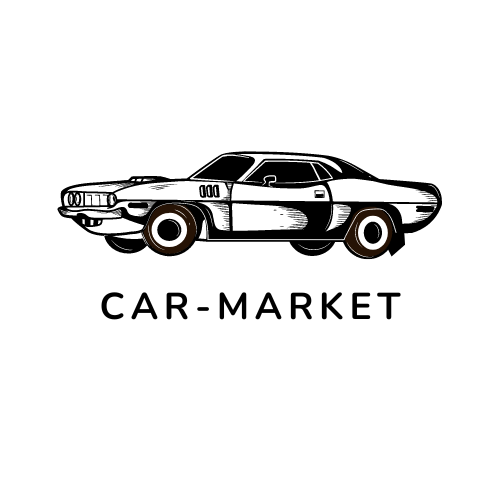
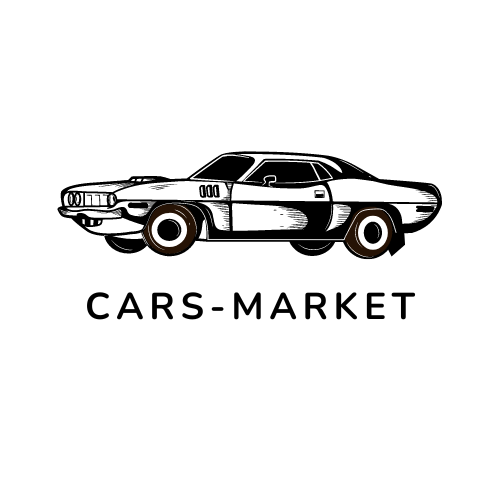
agregando perfil de usuario y arreglando carddetail

Changed region(s): [[0.15, 0.57, 0.84, 0.66]]

diff --git a/client/src/components/PerfilUser/PerfilUser.jsx b/client/src/components/PerfilUser/PerfilUser.jsx
@@ -1,57 +1,91 @@
-import {React, useEffect } from 'react'
-import { getUser, getUsers } from '../../Redux/Actions';
+import { React, useEffect } from 'react'
+import { getUser } from '../../Redux/Actions';
 import { useDispatch, useSelector } from 'react-redux';
-import { useParams } from "react-router-dom";
+import { useParams, useNavigate } from "react-router-dom";
 import Card from "../Card/Card.jsx";
+import NavBar from '../NavBar/NavBar';
 
+const estilos = {
+  button_regresar_inicio: "text-white bg-blue-700 hover:bg-blue-800 focus:outline-none shadow-md shadow-black rounded-full text-center mr-2 mb-2 dark:bg-blue-600 dark:hover:bg-blue-900 dark:focus:ring-blue-800 font-semibold text-lg leading-4  w-auto py-4 px-4 lg:mt-12 mt-6",
+}
 
+function PerfilUser() {
 
-function PerfilUser(props) {
+  const dispatch = useDispatch();
+  const history = useNavigate();
 
-    const dispatch = useDispatch();
+  const userDetail = useSelector(state => state.user);
+  const cardDetail = useSelector((state) => state.carDetail);
 
-    const userDetail = useSelector(state => state.user)
+  const car = userDetail.cars;
+  const reviewsUser = cardDetail.user && cardDetail.user.reviews;
+  const ratings = reviewsUser && reviewsUser.map(e => e.rating);
+  const ratingUser = ratings && Math.round(ratings.reduce((a, b) => a + b, 0) / ratings.length);
 
-    const car = userDetail.cars;
+  let { id } = useParams();
 
-    const reviewsUser = userDetail.reviews
-    const ratingUser = reviewsUser && Math.round(reviewsUser.reduce((a, b) => a + b, 0) / reviewsUser.length);
-
-    console.log(userDetail)
-
-    let { id } = useParams();
-
-    useEffect(() => {
-        dispatch(getUser(id))
-    }, {dispatch, id})
+  useEffect(() => {
+    dispatch(getUser(id))
+  }, [dispatch, id])
 
   return (
     <div>
-        <img src={userDetail.imgPerfil} alt='img not found' />
-        <div>{userDetail.firstName} {userDetail.lastName}</div>
-        <div class="flex gap-1">
-                        <svg aria-hidden="true" class={(reviewsUser && ratingUser >= 1) ? "w-7 h-7 text-yellow-400" : "w-7 h-7 text-gray-300"} fill="currentColor" viewBox="0 0 20 20" xmlns="http://www.w3.org/2000/svg"><title>First star</title><path d="M9.049 2.927c.3-.921 1.603-.921 1.902 0l1.07 3.292a1 1 0 00.95.69h3.462c.969 0 1.371 1.24.588 1.81l-2.8 2.034a1 1 0 00-.364 1.118l1.07 3.292c.3.921-.755 1.688-1.54 1.118l-2.8-2.034a1 1 0 00-1.175 0l-2.8 2.034c-.784.57-1.838-.197-1.539-1.118l1.07-3.292a1 1 0 00-.364-1.118L2.98 8.72c-.783-.57-.38-1.81.588-1.81h3.461a1 1 0 00.951-.69l1.07-3.292z"></path></svg>
-                        <svg aria-hidden="true" class={(reviewsUser && ratingUser >= 2) ? "w-7 h-7 text-yellow-400" : "w-7 h-7 text-gray-300"} fill="currentColor" viewBox="0 0 20 20" xmlns="http://www.w3.org/2000/svg"><title>Second star</title><path d="M9.049 2.927c.3-.921 1.603-.921 1.902 0l1.07 3.292a1 1 0 00.95.69h3.462c.969 0 1.371 1.24.588 1.81l-2.8 2.034a1 1 0 00-.364 1.118l1.07 3.292c.3.921-.755 1.688-1.54 1.118l-2.8-2.034a1 1 0 00-1.175 0l-2.8 2.034c-.784.57-1.838-.197-1.539-1.118l1.07-3.292a1 1 0 00-.364-1.118L2.98 8.72c-.783-.57-.38-1.81.588-1.81h3.461a1 1 0 00.951-.69l1.07-3.292z"></path></svg>
-                        <svg aria-hidden="true" class={(reviewsUser && ratingUser >= 3) ? "w-7 h-7 text-yellow-400" : "w-7 h-7 text-gray-300"} fill="currentColor" viewBox="0 0 20 20" xmlns="http://www.w3.org/2000/svg"><title>Third star</title><path d="M9.049 2.927c.3-.921 1.603-.921 1.902 0l1.07 3.292a1 1 0 00.95.69h3.462c.969 0 1.371 1.24.588 1.81l-2.8 2.034a1 1 0 00-.364 1.118l1.07 3.292c.3.921-.755 1.688-1.54 1.118l-2.8-2.034a1 1 0 00-1.175 0l-2.8 2.034c-.784.57-1.838-.197-1.539-1.118l1.07-3.292a1 1 0 00-.364-1.118L2.98 8.72c-.783-.57-.38-1.81.588-1.81h3.461a1 1 0 00.951-.69l1.07-3.292z"></path></svg>
-                        <svg aria-hidden="true" class={(reviewsUser && ratingUser >= 4) ? "w-7 h-7 text-yellow-400" : "w-7 h-7 text-gray-300"} fill="currentColor" viewBox="0 0 20 20" xmlns="http://www.w3.org/2000/svg"><title>Fourth star</title><path d="M9.049 2.927c.3-.921 1.603-.921 1.902 0l1.07 3.292a1 1 0 00.95.69h3.462c.969 0 1.371 1.24.588 1.81l-2.8 2.034a1 1 0 00-.364 1.118l1.07 3.292c.3.921-.755 1.688-1.54 1.118l-2.8-2.034a1 1 0 00-1.175 0l-2.8 2.034c-.784.57-1.838-.197-1.539-1.118l1.07-3.292a1 1 0 00-.364-1.118L2.98 8.72c-.783-.57-.38-1.81.588-1.81h3.461a1 1 0 00.951-.69l1.07-3.292z"></path></svg>
-                        <svg aria-hidden="true" class={(reviewsUser && ratingUser === 5) ? "w-7 h-7 text-yellow-400" : "w-7 h-7 text-gray-300"} fill="currentColor" viewBox="0 0 20 20" xmlns="http://www.w3.org/2000/svg"><title>Fifth star</title><path d="M9.049 2.927c.3-.921 1.603-.921 1.902 0l1.07 3.292a1 1 0 00.95.69h3.462c.969 0 1.371 1.24.588 1.81l-2.8 2.034a1 1 0 00-.364 1.118l1.07 3.292c.3.921-.755 1.688-1.54 1.118l-2.8-2.034a1 1 0 00-1.175 0l-2.8 2.034c-.784.57-1.838-.197-1.539-1.118l1.07-3.292a1 1 0 00-.364-1.118L2.98 8.72c-.783-.57-.38-1.81.588-1.81h3.461a1 1 0 00.951-.69l1.07-3.292z"></path></svg>
-                      </div>
-        <div>
-            {car && car.map(el => (
-                <Card 
-                    key={el.id}
-                    id={el.id}
-                    image={el.image}
-                    descriptionShort={el.descriptionShort}
-                    price={el.price}
-                    kilometres={el.kilometres}
-                    transmition={el.transmition}
-                    year={el.year}
-                    prem={el.premium}
-                  />
-            ))
-            }
+      <div>
+        <NavBar />
+      </div>
+      <div className='pt-40 pb-10 bg-gradient-to-r from-cyan-500 to-blue-500 flex justify-center'>
+        <div className='w-9/12 bg-white flex flex-col rounded-3xl shadow-xl'>
+          <div className='flex justify-between'>
+            <div className='flex'>
+              <div className='pl-20'>
+                <img src={userDetail.imgPerfil} alt='img not found' className='rounded-full w-36 shadow-xl border-none -mt-16' />
+              </div>
+              <div>
+                <div className='font-semibold lg:text-4xl sm:text-2xl md:text-2xl text-3xl leading-10 text-gray-600 mt-8 ml-6'>{userDetail.firstName} {userDetail.lastName}</div>
+                <div class="flex gap-1 ml-6 mt-2">
+                  <svg aria-hidden="true" class={(reviewsUser && ratingUser >= 1) ? "sm:w-6 sm:h-6 md:w-7 md:h-7 lg:w-8 lg:h8 xl:w-9 xl:h-9 text-yellow-400" : "sm:w-6 sm:h-6 md:w-7 md:h-7 lg:w-8 lg:h8 xl:w-9 xl:h-9 text-gray-300"} fill="currentColor" viewBox="0 0 20 20" xmlns="http://www.w3.org/2000/svg"><title>First star</title><path d="M9.049 2.927c.3-.921 1.603-.921 1.902 0l1.07 3.292a1 1 0 00.95.69h3.462c.969 0 1.371 1.24.588 1.81l-2.8 2.034a1 1 0 00-.364 1.118l1.07 3.292c.3.921-.755 1.688-1.54 1.118l-2.8-2.034a1 1 0 00-1.175 0l-2.8 2.034c-.784.57-1.838-.197-1.539-1.118l1.07-3.292a1 1 0 00-.364-1.118L2.98 8.72c-.783-.57-.38-1.81.588-1.81h3.461a1 1 0 00.951-.69l1.07-3.292z"></path></svg>
+                  <svg aria-hidden="true" class={(reviewsUser && ratingUser >= 2) ? "sm:w-6 sm:h-6 md:w-7 md:h-7 lg:w-8 lg:h8 xl:w-9 xl:h-9 text-yellow-400" : "sm:w-6 sm:h-6 md:w-7 md:h-7 lg:w-8 lg:h8 xl:w-9 xl:h-9 text-gray-300"} fill="currentColor" viewBox="0 0 20 20" xmlns="http://www.w3.org/2000/svg"><title>Second star</title><path d="M9.049 2.927c.3-.921 1.603-.921 1.902 0l1.07 3.292a1 1 0 00.95.69h3.462c.969 0 1.371 1.24.588 1.81l-2.8 2.034a1 1 0 00-.364 1.118l1.07 3.292c.3.921-.755 1.688-1.54 1.118l-2.8-2.034a1 1 0 00-1.175 0l-2.8 2.034c-.784.57-1.838-.197-1.539-1.118l1.07-3.292a1 1 0 00-.364-1.118L2.98 8.72c-.783-.57-.38-1.81.588-1.81h3.461a1 1 0 00.951-.69l1.07-3.292z"></path></svg>
+                  <svg aria-hidden="true" class={(reviewsUser && ratingUser >= 3) ? "sm:w-6 sm:h-6 md:w-7 md:h-7 lg:w-8 lg:h8 xl:w-9 xl:h-9 text-yellow-400" : "sm:w-6 sm:h-6 md:w-7 md:h-7 lg:w-8 lg:h8 xl:w-9 xl:h-9 text-gray-300"} fill="currentColor" viewBox="0 0 20 20" xmlns="http://www.w3.org/2000/svg"><title>Third star</title><path d="M9.049 2.927c.3-.921 1.603-.921 1.902 0l1.07 3.292a1 1 0 00.95.69h3.462c.969 0 1.371 1.24.588 1.81l-2.8 2.034a1 1 0 00-.364 1.118l1.07 3.292c.3.921-.755 1.688-1.54 1.118l-2.8-2.034a1 1 0 00-1.175 0l-2.8 2.034c-.784.57-1.838-.197-1.539-1.118l1.07-3.292a1 1 0 00-.364-1.118L2.98 8.72c-.783-.57-.38-1.81.588-1.81h3.461a1 1 0 00.951-.69l1.07-3.292z"></path></svg>
+                  <svg aria-hidden="true" class={(reviewsUser && ratingUser >= 4) ? "sm:w-6 sm:h-6 md:w-7 md:h-7 lg:w-8 lg:h8 xl:w-9 xl:h-9 text-yellow-400" : "sm:w-6 sm:h-6 md:w-7 md:h-7 lg:w-8 lg:h8 xl:w-9 xl:h-9 text-gray-300"} fill="currentColor" viewBox="0 0 20 20" xmlns="http://www.w3.org/2000/svg"><title>Fourth star</title><path d="M9.049 2.927c.3-.921 1.603-.921 1.902 0l1.07 3.292a1 1 0 00.95.69h3.462c.969 0 1.371 1.24.588 1.81l-2.8 2.034a1 1 0 00-.364 1.118l1.07 3.292c.3.921-.755 1.688-1.54 1.118l-2.8-2.034a1 1 0 00-1.175 0l-2.8 2.034c-.784.57-1.838-.197-1.539-1.118l1.07-3.292a1 1 0 00-.364-1.118L2.98 8.72c-.783-.57-.38-1.81.588-1.81h3.461a1 1 0 00.951-.69l1.07-3.292z"></path></svg>
+                  <svg aria-hidden="true" class={(reviewsUser && ratingUser === 5) ? "sm:w-6 sm:h-6 md:w-7 md:h-7 lg:w-8 lg:h8 xl:w-9 xl:h-9 text-yellow-400" : "sm:w-6 sm:h-6 md:w-7 md:h-7 lg:w-8 lg:h8 xl:w-9 xl:h-9 text-gray-300"} fill="currentColor" viewBox="0 0 20 20" xmlns="http://www.w3.org/2000/svg"><title>Fifth star</title><path d="M9.049 2.927c.3-.921 1.603-.921 1.902 0l1.07 3.292a1 1 0 00.95.69h3.462c.969 0 1.371 1.24.588 1.81l-2.8 2.034a1 1 0 00-.364 1.118l1.07 3.292c.3.921-.755 1.688-1.54 1.118l-2.8-2.034a1 1 0 00-1.175 0l-2.8 2.034c-.784.57-1.838-.197-1.539-1.118l1.07-3.292a1 1 0 00-.364-1.118L2.98 8.72c-.783-.57-.38-1.81.588-1.81h3.461a1 1 0 00.951-.69l1.07-3.292z"></path></svg>
+                </div>
+              </div>
+            </div>
+            <div className='mr-10'>
+              <button
+                title="Regresar al inicio"
+                className={estilos.button_regresar_inicio}
+                onClick={() => history(`/cars/${cardDetail.id}`)}>
+                Regresar
+              </button>
+            </div>
+          </div>
+          <div className='flex justify-center border-y-2 border-gray-300 my-5 mx-20'>
+            <div className='sm:text-xl md:text-2xl lg:text-3xl text-gray-600 font-semibold py-3  '>
+              Publicaciones
+            </div>
+          </div>
+          <div className=' mb-10'>
+            <div className='flex  lg:flex-row justify-center'>
+              {car && car.map(el => (
+                <Card
+                  key={el.id}
+                  id={el.id}
+                  image={el.image}
+                  descriptionShort={el.descriptionShort}
+                  price={el.price}
+                  kilometres={el.kilometres}
+                  transmition={el.transmition}
+                  year={el.year}
+                  prem={el.premium}
+
+                />
+              ))
+              }
+            </div>
+          </div>
         </div>
+      </div>
     </div>
   )
 }

diff --git a/client/src/components/CardDetail/CardDetail.jsx b/client/src/components/CardDetail/CardDetail.jsx
@@ -19,9 +19,7 @@ const estilos = {
   cajaComentarios: "border-4 border-gray-300 mb-5 pl-3 py-3 h-auto w-full shadow-sm bg-transparent rounded text-lg focus:outline-none focus:border-blue-500 placeholder-gray-500 text-gray-700",
   contenedor_input_y_titulo: "md:w-auto flex flex-col mb-6",
   titulos: "text-xl leading-8 font-semibold text-gray-800 pb-2",
-
 }
-
 
 function CardDetail() {
 
@@ -82,10 +80,8 @@ function CardDetail() {
 
   const reviewsUser = carsDetail.user && carsDetail.user.reviews;
   // const reviewsUser = [1, 5, 3, 2, 1, 2, 4]
-  const ratings = reviewsUser.map(e => e.rating);
+  const ratings = reviewsUser && reviewsUser.map(e => e.rating);
   const ratingUser = ratings && Math.round(ratings.reduce((a, b) => a + b, 0) / ratings.length);
-  console.log(reviewsUser);
-  console.log(ratingUser);
 
   useEffect(() => {
     dispatch(getCardDetail(id));
@@ -169,8 +165,6 @@ function CardDetail() {
     return <Loading />;
   }
 
-  console.log(carsDetail);
-
   return (
     <div>
       <NavBar />
@@ -226,10 +220,10 @@ function CardDetail() {
               <div className=" w-full sm:w-96 md:w-8/12 lg:w-6/12 flex flex-col sm:pt-6 p-3 items-center lg:gap-8 sm:gap-6 gap-4">
                 <article className=' w-full lg:w-9/12'>
                   <div class="flex gap-5">
-                    <img class="w-20 h-20 rounded-full" src={carsDetail.user ? carsDetail.user.imgPerfil : perfilImg} alt={perfilImg} />
+                    <img class="w-20 h-20 rounded-full cursor-pointer" title='Ver perfil de este usuario' onClick={() => history(`/perfil/${carsDetail.user && carsDetail.user.id}`)} src={carsDetail.user ? carsDetail.user.imgPerfil : perfilImg} alt={perfilImg} />
                     <div class="flex flex-col justify-between py-3 w-auto font-medium text-black">
                       <div>
-                        <p className='text-2xl leading-8 font-semibold text-gray-800'> {`${carsDetail.user && carsDetail.user.firstName} ${carsDetail.user && carsDetail.user.lastName}`}</p>
+                        <p onClick={() => history(`/perfil/${carsDetail.user && carsDetail.user.id}`)}title='Ver perfil de este usuario' className='text-2xl leading-8 font-semibold text-gray-800 cursor-pointer'> {`${carsDetail.user && carsDetail.user.firstName} ${carsDetail.user && carsDetail.user.lastName}`}</p>
                       </div>
                       <div class="flex gap-1">
                         <svg aria-hidden="true" class={(reviewsUser && ratingUser >= 1) ? "w-7 h-7 text-yellow-400" : "w-7 h-7 text-gray-300"} fill="currentColor" viewBox="0 0 20 20" xmlns="http://www.w3.org/2000/svg"><title>First star</title><path d="M9.049 2.927c.3-.921 1.603-.921 1.902 0l1.07 3.292a1 1 0 00.95.69h3.462c.969 0 1.371 1.24.588 1.81l-2.8 2.034a1 1 0 00-.364 1.118l1.07 3.292c.3.921-.755 1.688-1.54 1.118l-2.8-2.034a1 1 0 00-1.175 0l-2.8 2.034c-.784.57-1.838-.197-1.539-1.118l1.07-3.292a1 1 0 00-.364-1.118L2.98 8.72c-.783-.57-.38-1.81.588-1.81h3.461a1 1 0 00.951-.69l1.07-3.292z"></path></svg>

diff --git a/api/src/routes/SendEmail.js b/api/src/routes/SendEmail.js
@@ -43,6 +43,37 @@ router.post("/ForSeller", async (req, res) => {
     }
 });
 
+router.post("/copyOfMailBuyer", async (req, res) => {
+    const { firstName, lastName, emailbuyer, message, emailSeller, phone, car } = req.body;
+
+    try {
+        await transporter.sendMail({
+            from: `${firstName} ${lastName}: ${emailbuyer}`,// Quien manda el email
+            to: emailbuyer,// Email destino
+            subject: "Publicaciones Car-Market",//Asunto del correo
+            text: `${message}`,
+            html: `
+            <h2>Esto es una copia de su su mensaje al vendedor sobre ${car}</h2>
+            <p><strong>Por favor, NO responder directectamente este correo!!!</strong></p>
+            <p><strong>Su mensaje ha sido enviado exitosamente al vendedor, pronto se contactara con usted</strong></p>
+            
+            <hr />
+            <span><strong>Nombre: </strong>${firstName} ${lastName}</span><br/>
+            <span><strong>Email: </strong>${emailbuyer}</span><br/>
+            <span><strong>Telefono: </strong>${phone ? phone : "No especificado"}</span>
+            <hr />
+            <h3>Mensaje:</h3>
+            <p>${message}</p>
+            <hr />
+            `
+        });
+        res.status(200).send(`Copia de correo enviado a: ${emailbuyer}`);
+
+    } catch (error) {
+        res.status(500).send("Error en el servidor al enviar el correo");
+    }
+});
+
 router.post("/ForBuyer", async (req, res) => {
     const { firstName, lastName, emailbuyer, message, emailSeller, idSeller, firstNameSeller, lastNameSeller } = req.body;
 

diff --git a/client/src/components/NavBar/NavBar.jsx b/client/src/components/NavBar/NavBar.jsx
@@ -1,7 +1,7 @@
 import { React, useState } from "react";
 import SearchBar from "../SearchBar/SearchBar";
 import "./NavBar.css";
-import Logo from "./Logo CarMarket.png";
+import Logo from "./Logo Cars-Market.png";
 import { Link, useNavigate } from "react-router-dom";
 import { useAuth0 } from "@auth0/auth0-react";
 import imgDefault from "../Card/imagenes/usuario.png";
@@ -28,7 +28,7 @@ export default function NavBar() {
   const [show, setShow] = useState(false);
   const { user, loginWithRedirect, isAuthenticated, logout } = useAuth0();
   const history = useNavigate();
-  
+
   useEffect(() => {
 
     dispatch(getUsers());
@@ -43,14 +43,15 @@ export default function NavBar() {
     <nav className="contenedor-NavBar">
       <Link to="/">
         {" "}
-        <img
-          src={Logo}
-          onClick={() => history("/")}
-          alt="img not found"
-          width="120px"
-          className="logo"
-          class="shadow-md shadow-black rounded-md"
-        />
+        <div className="w-24 ">
+          <img
+            src={Logo}
+            onClick={() => history("/")}
+            alt="img not found"
+            className="h-16 rounded-sm"
+            class="shadow-md shadow-black rounded-sm"
+          />
+        </div>
       </Link>
       {window.location.pathname !== "/createuser" &&
         window.location.pathname !== `/cars/${carId.id}` &&

diff --git a/client/src/components/Card/Card.jsx b/client/src/components/Card/Card.jsx
@@ -91,7 +91,7 @@ function Card({
                 <p>Año: {year}</p>
               </div>
             </div>
-            <div class="flex justify-between items-center">
+            <div class="flex justify-center items-center">
               <Link to={`/cars/${id}`}>
                 <button
                   title="Ver mas información del vehículo"
@@ -100,17 +100,6 @@ function Card({
                   Ver detalles
                 </button>
               </Link>
-              <button
-                onClick={() => RedirectRegister()}
-                title="Añadir a favoritos"
-                class={
-                  heart
-                    ? "sm:text-3xl md:text-3xl lg:text-4xl xl:text-5xl text-red-500  duration-300"
-                    : "sm:text-3xl md:text-3xl lg:text-4xl xl:text-5xl text-gray-300  hover:text-red-500 duration-300"
-                }
-              >
-                &hearts;
-              </button>
             </div>
           </div>
         </div>

diff --git a/client/src/components/contactForm/contactForm.jsx b/client/src/components/contactForm/contactForm.jsx
@@ -3,7 +3,7 @@ import { useNavigate } from "react-router-dom";
 import { useDispatch, useSelector } from 'react-redux';
 import NavBar from '../NavBar/NavBar';
 import { useAuth0 } from '@auth0/auth0-react';
-import { sendEmailSeller } from '../../Redux/Actions.js';
+import { sendEmailSeller, copyOfMailBuyer } from '../../Redux/Actions.js';
 import Loading from '../Loading/Loading.jsx';
 import Swal from 'sweetalert2'
 import {useLocalStorage} from './useLocalStorage'
@@ -66,7 +66,8 @@ function ConctactForm() {
         if (state.firstName && state.lastName && state.emailbuyer && state.message && state.emailSeller) {
             !state.phone && setState({ ...state, phone: "Numero no especificado" });
 
-            dispatch(sendEmailSeller(state))
+            dispatch(sendEmailSeller(state));
+            dispatch(copyOfMailBuyer(state));
             setState({
                 firstName: "",
                 lastName: "",

diff --git a/client/src/Redux/Actions.js b/client/src/Redux/Actions.js
@@ -179,7 +179,7 @@ export function getTransaction() {
 }
 export function get_Payment_Link(email) {
   return async function (dispatch) {
-    const { data } = await axios.get(`/paymentprueba?email=`+email);
+    const { data } = await axios.get(`/paymentprueba?email=` + email);
     return dispatch({
       type: "GET_PAYMENT_LINK",
       payload: data,
@@ -208,6 +208,19 @@ export function sendEmailSeller(data) {
   return async function () {
     try {
       const email = await axios.post("/sendEmail/ForSeller", data);
+      console.log(email);
+      return email;
+    } catch (error) {
+      console.log(error);
+    }
+  };
+
+}
+
+export function copyOfMailBuyer(data) {
+  return async function () {
+    try {
+      const email = await axios.post("/sendEmail/copyOfMailBuyer", data);
       console.log(email);
       return email;
     } catch (error) {

diff --git a/client/src/App.js b/client/src/App.js
@@ -34,8 +34,8 @@ function App() {
           <Route path='/dashboard' element={<Dashboard/>}/>
           <Route path="/SellerRatingForm" element={<SellerRatingForm />} />
           <Route path="/BuyerForm" element={<BuyerForm />} />
-          <Route path="*" element={<PageNotFound />} />
           <Route path="/perfil/:id" element={<PerfilUser/>}/>
+          <Route path="*" element={<PageNotFound />} />
         </Routes>
       </BrowserRouter>
 
